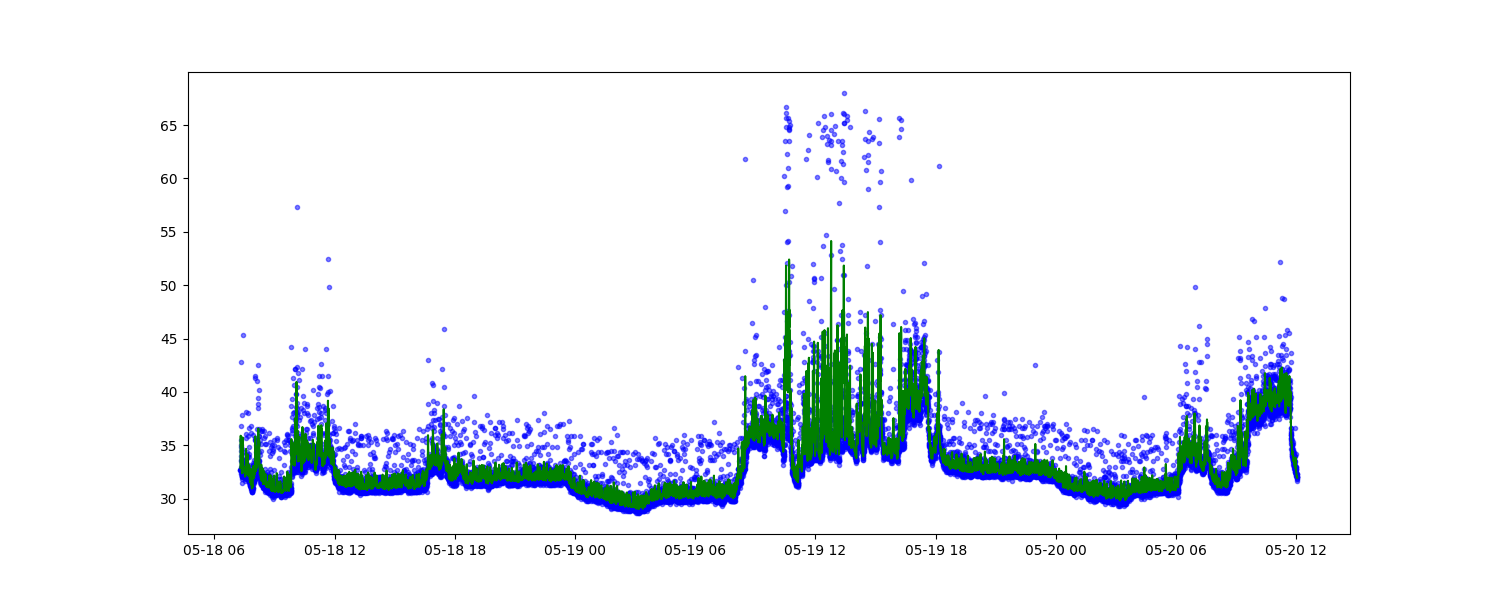
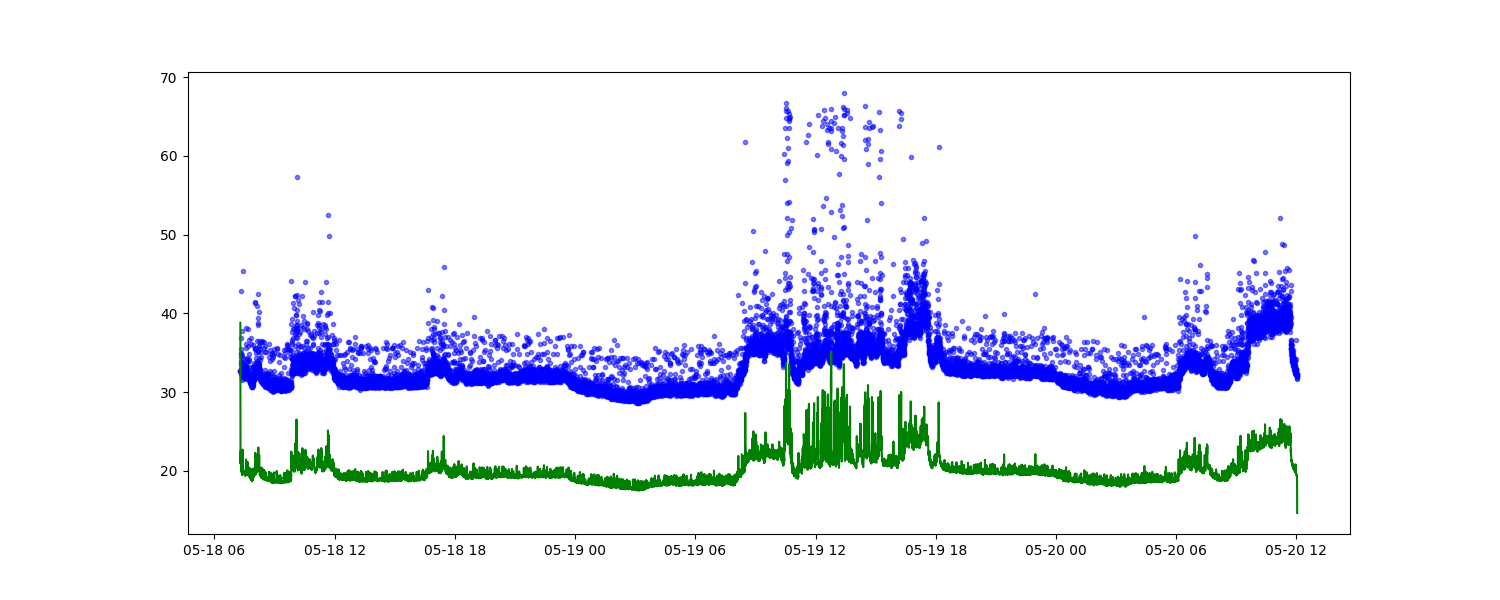
🔥Updated part2 of Exercise 7

diff --git a/Exercises/7/e7/regress_cpu.py b/Exercises/7/e7/regress_cpu.py
@@ -14,12 +14,14 @@ def get_data(filename):
     Read the given CSV file. Returns sysinfo DataFrame with target (next temperature) column created.
     """
     sysinfo = pd.read_csv(filename, parse_dates=['timestamp'])
+
     # TODO: add the column that we want to predict: the temperatures from the *next* time step.
-    sysinfo['next_temp'] = sysinfo['temperature']
-    sysinfo['next_temp'] = sysinfo['next_temp'].shift(periods=-1)
+
     sysinfo[y_column] = sysinfo['temperature']  # should be the temperature value from the next row
     sysinfo = sysinfo[sysinfo[y_column].notnull()]  # the last row should have y_column null: no next temp known
-    sysinfo
+    sysinfo['next_temp'] = sysinfo['temperature']
+    sysinfo['next_temp'] = sysinfo['next_temp'].shift(periods=-1)
+    sysinfo.drop(sysinfo[sysinfo['next_temp'].isna()].index, inplace=True)
     return sysinfo
 
 
@@ -31,6 +33,11 @@ def get_trained_coefficients(X_train, y_train):
     """
 
     # TODO: create regression model and train.
+    # X_train = np.concatenate([X_train], axis=1)
+    # y_train = np.stack([y_train], axis=1)
+
+    # print(X_train)
+
     model = LinearRegression(fit_intercept=False)
     model.fit(X_train, y_train)
     coefficients = model.coef_
@@ -69,7 +76,7 @@ def smooth_test(coef, sysinfo, outfile):
 
     # TODO: replace the first row of transition to use the coefficients we just calculated (which were passed into this function as coef.).
     transition = transition * coef
-    print(transition)
+    # print(transition)
 
     kf = KalmanFilter(
         initial_state_mean=initial,
@@ -99,7 +106,7 @@ def main(training_file, validation_file):
     output_regression(coefficients)
     smooth_test(coefficients, train, 'train.png')
 
-    # print("Training score: %g\nValidation score: %g" % (model.score(X_train, y_train), model.score(X_valid, y_valid)))
+    print("Training score: %g\nValidation score: %g" % (model.score(X_train, y_train), model.score(X_valid, y_valid)))
 
     plot_errors(model, X_valid, y_valid)
     smooth_test(coefficients, valid, 'valid.png')
